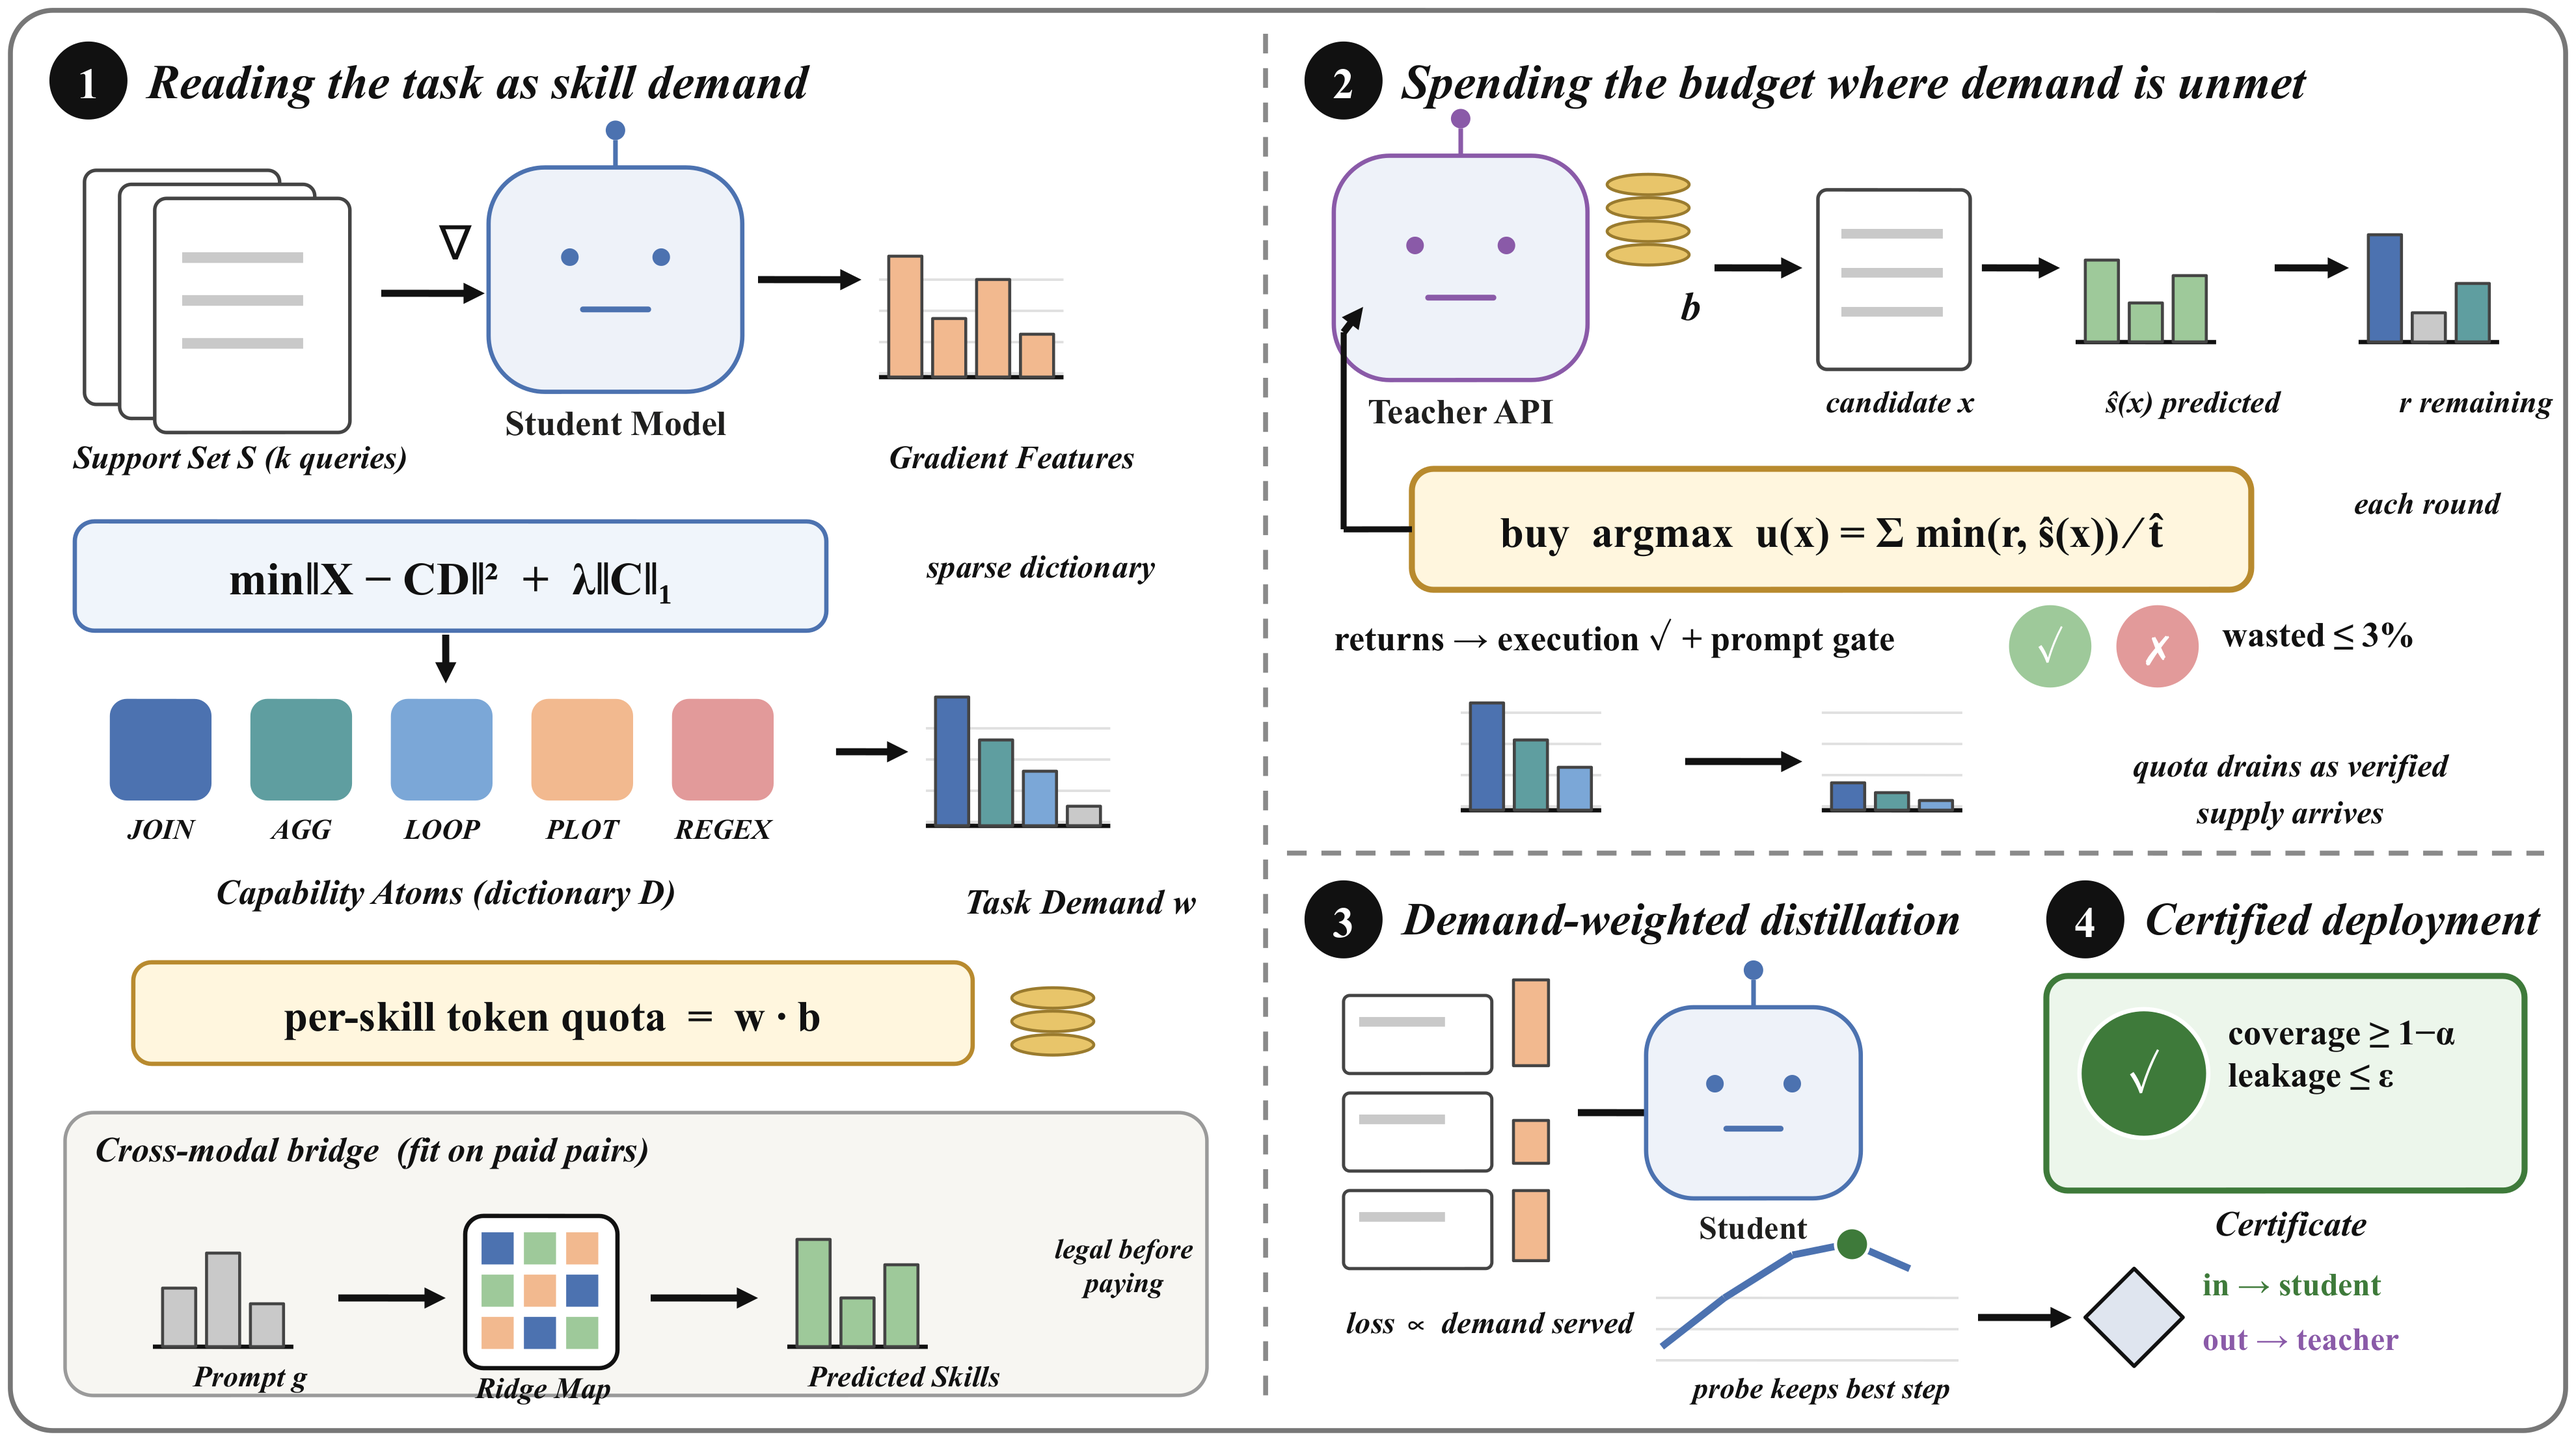
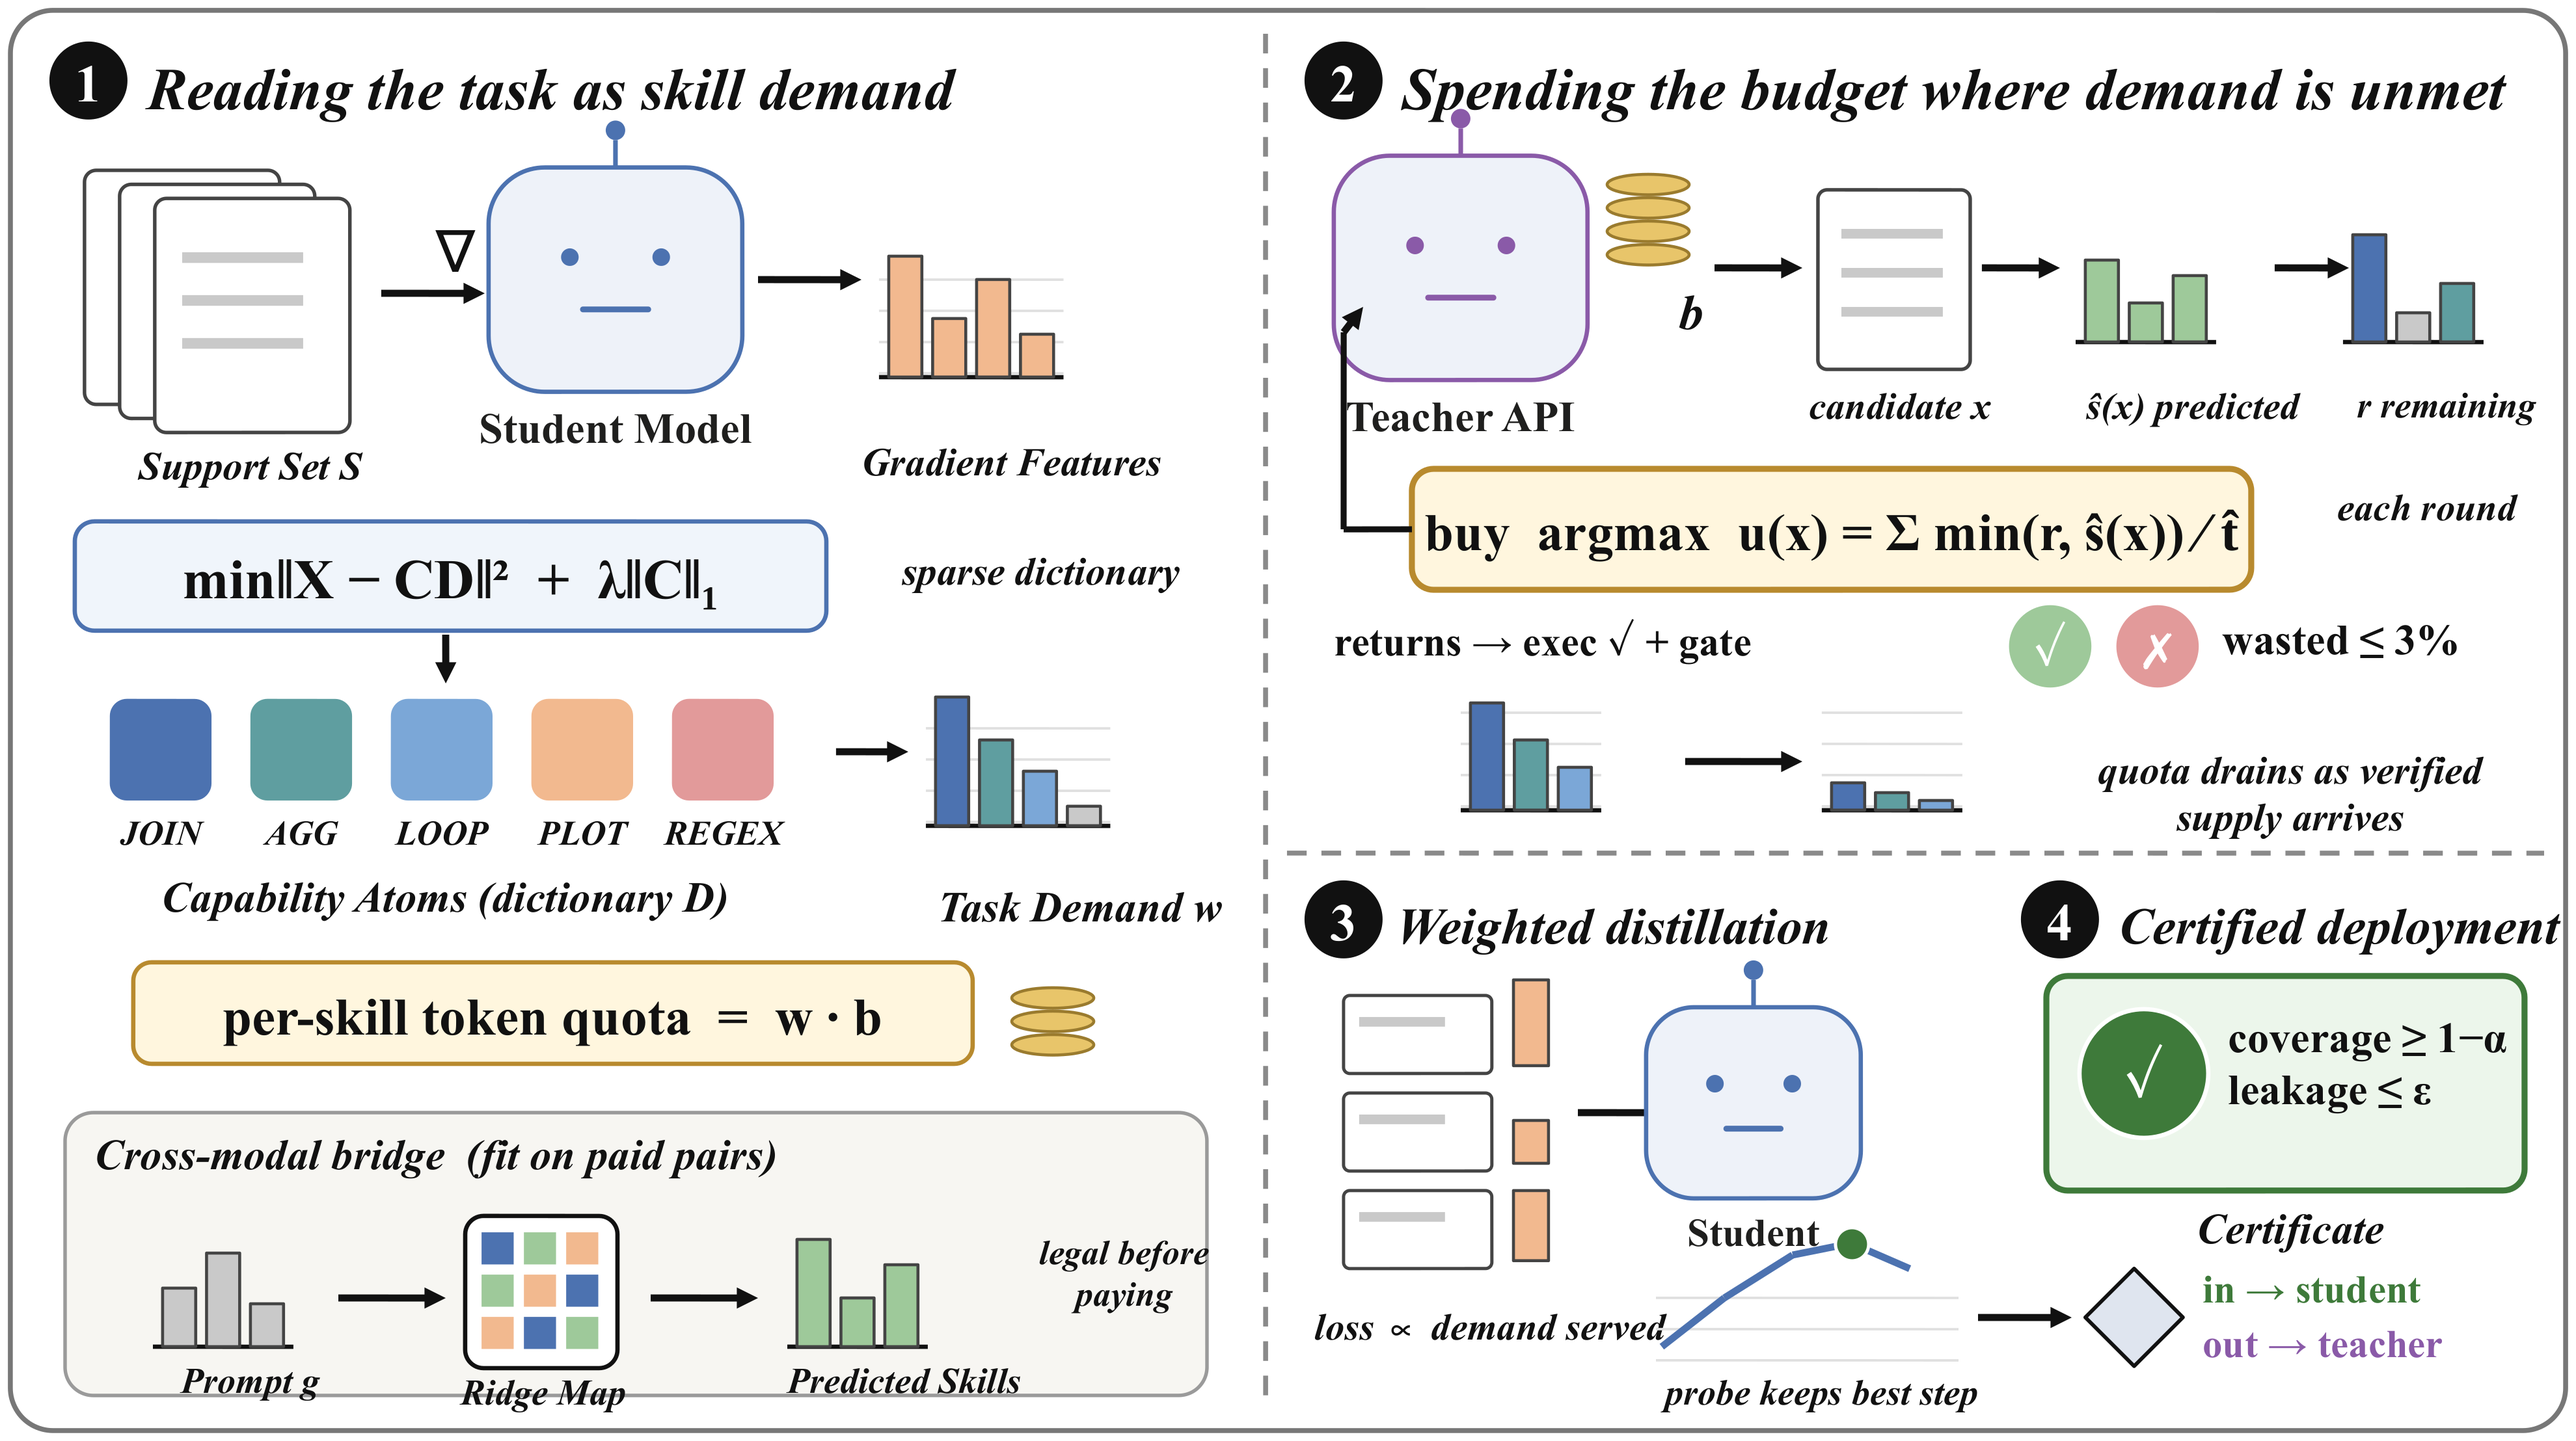
figs: v13 fonts +22% with overflow fixes

diff --git a/tools/make_pipeline_v13.py b/tools/make_pipeline_v13.py
@@ -190,7 +190,7 @@ def bars(x, y, hs, colors, bw=0.17, gap=0.055, grid=True):
             lw=1.1, radius=None, shape=MSO_SHAPE.RECTANGLE)
     return W
 
-def ital(x, y, w, t, size=13, color=DARK, align=PP_ALIGN.CENTER):
+def ital(x, y, w, t, size=15.9, color=DARK, align=PP_ALIGN.CENTER):
     label(x, y, w, 0.32, t, size=size, color=color, italic=True, bold=True,
           align=align)
 
@@ -204,7 +204,7 @@ def arrow(x0, y0, x1, y1, color=DARK, w=2.6):
 
 def stagenum(x, y, n):
     box(x, y, 0.40, 0.40, DARK, None, shape=MSO_SHAPE.OVAL, radius=None,
-        text=str(n), size=16, tcolor=WHITE, bold=True)
+        text=str(n), size=19.5, tcolor=WHITE, bold=True)
 
 def matrix_icon(x, y, s=0.92, name=None):
     box(x, y, s, s, WHITE, DARK, lw=1.6, radius=0.12)
@@ -216,7 +216,7 @@ def matrix_icon(x, y, s=0.92, name=None):
                 cell * 0.8, cols[(r + cc) % 3], WHITE, lw=0.6, radius=None,
                 shape=MSO_SHAPE.RECTANGLE)
     if name:
-        ital(x - 0.45, y + s + 0.05, s + 0.9, name, size=12)
+        ital(x - 0.45, y + s + 0.05, s + 0.9, name, size=14.6)
 
 def coin_stack(x, y, n=4):
     for i in range(n):
@@ -239,24 +239,24 @@ dashline(6.66, 4.42, 13.10, 4.42)
 
 # ============================== LEFT: demand ==============================
 stagenum(0.32, 0.26, 1)
-ital(0.82, 0.30, 5.4, "Reading the task as skill demand", size=18,
+ital(0.82, 0.30, 5.4, "Reading the task as skill demand", size=22,
      align=PP_ALIGN.LEFT)
 
 docs(0.50, 0.92)
-ital(0.30, 2.28, 2.0, "Support Set S (k queries)", size=12)
+ital(0.20, 2.30, 2.3, "Support Set S", size=14.6)
 arrow(2.02, 1.55, 2.55, 1.55)
-label(1.95, 1.10, 0.9, 0.3, "∇", size=20, color=DARK, bold=True)
+label(1.95, 1.10, 0.9, 0.3, "∇", size=24.4, color=DARK, bold=True)
 
-chip(3.22, 1.48, 1.30, 1.15, BLUED, "Student Model", size=13)
+chip(3.22, 1.48, 1.30, 1.15, BLUED, "Student Model", size=15.9)
 arrow(3.95, 1.48, 4.48, 1.48)
 
 bars(4.62, 1.98, [0.62, 0.30, 0.50, 0.22], [ORAN]*4)
-ital(4.30, 2.28, 1.9, "Gradient Features", size=12)
+ital(4.30, 2.28, 1.9, "Gradient Features", size=14.6)
 
 # sparse dictionary formula in pale box
 box(0.45, 2.72, 3.85, 0.56, PALEB, BLUED, lw=1.6, radius=0.18,
-    text="min‖X − CD‖²  +  λ‖C‖₁", size=17, tcolor=DARK, bold=True)
-ital(4.40, 2.84, 2.0, "sparse dictionary", size=12)
+    text="min‖X − CD‖²  +  λ‖C‖₁", size=20.7, tcolor=DARK, bold=True)
+ital(4.40, 2.84, 2.0, "sparse dictionary", size=14.6)
 arrow(2.35, 3.30, 2.35, 3.55)
 
 # atoms with names
@@ -264,44 +264,44 @@ NAMES = ("JOIN", "AGG", "LOOP", "PLOT", "REGEX")
 for i, (c, nm) in enumerate(zip((BLUED, IN2, IN3, ORAN, REDL), NAMES)):
     x0 = 0.62 + i * 0.72
     box(x0, 3.62, 0.54, 0.54, c, WHITE, lw=1.4, radius=0.18)
-    ital(x0 - 0.23, 4.20, 1.0, nm, size=10.5)
-ital(0.55, 4.50, 3.6, "Capability Atoms (dictionary D)", size=13)
+    ital(x0 - 0.23, 4.20, 1.0, nm, size=12.8)
+ital(0.55, 4.50, 3.6, "Capability Atoms (dictionary D)", size=15.9)
 arrow(4.35, 3.90, 4.72, 3.90)
 
 bars(4.86, 4.28, [0.66, 0.44, 0.28, 0.10], [BLUED, IN2, IN3, GRAYB])
-ital(4.55, 4.55, 2.1, "Task Demand w", size=13)
+ital(4.55, 4.55, 2.1, "Task Demand w", size=15.9)
 
 # quota line with coin
 box(0.75, 4.98, 4.30, 0.52, PALEY, RGBColor(0xB8,0x8A,0x2E), lw=1.6,
-    radius=0.18, text="per-skill token quota  =  w · b", size=16,
+    radius=0.18, text="per-skill token quota  =  w · b", size=19.5,
     tcolor=DARK, bold=True)
 coin_stack(5.25, 5.35, n=3)
 
 # bridge strip
 box(0.40, 5.75, 5.85, 1.45, CARD, RGBColor(0x9A,0x9A,0x9A), lw=1.3,
     radius=0.10)
-ital(0.55, 5.82, 5.5, "Cross-modal bridge  (fit on paid pairs)", size=13,
+ital(0.55, 5.82, 5.5, "Cross-modal bridge  (fit on paid pairs)", size=15.9,
      align=PP_ALIGN.LEFT)
 bars(0.90, 6.95, [0.30, 0.48, 0.22], [GRAYB]*3, grid=False)
-ital(0.55, 7.00, 1.6, "Prompt g", size=11)
+ital(0.55, 7.00, 1.6, "Prompt g", size=13.4)
 arrow(1.80, 6.70, 2.35, 6.70)
 matrix_icon(2.45, 6.28, s=0.78)
-ital(2.20, 7.06, 1.3, "Ridge Map", size=11)
+ital(2.20, 7.06, 1.3, "Ridge Map", size=13.4)
 arrow(3.40, 6.70, 3.95, 6.70)
 bars(4.15, 6.95, [0.55, 0.25, 0.42], [GRNB]*3, grid=False)
-ital(3.85, 7.00, 1.7, "Predicted Skills", size=11)
-label(5.35, 6.35, 0.95, 0.6, "legal before\npaying", size=10.5,
+ital(3.85, 7.00, 1.7, "Predicted Skills", size=13.4)
+label(5.35, 6.35, 0.95, 0.6, "legal before\npaying", size=12.8,
       color=DARK, bold=True, italic=True)
 
 # ====================== RIGHT TOP: acquisition loop ======================
 stagenum(6.75, 0.26, 2)
 ital(7.25, 0.30, 6.1, "Spending the budget where demand is unmet",
-     size=18, align=PP_ALIGN.LEFT)
+     size=22, align=PP_ALIGN.LEFT)
 
 chip(7.55, 1.42, 1.30, 1.15, RGBColor(0x8A,0x5A,0xA8), "Teacher API",
-     size=13)
+     size=15.9)
 coin_stack(8.30, 1.30)
-ital(8.28, 1.48, 0.9, "b", size=15)
+ital(8.28, 1.48, 0.9, "b", size=18.3)
 
 arrow(8.85, 1.42, 9.30, 1.42)
 box(9.38, 1.02, 0.78, 0.92, WHITE, RGBColor(0x44,0x44,0x44), lw=1.3,
@@ -309,46 +309,46 @@ box(9.38, 1.02, 0.78, 0.92, WHITE, RGBColor(0x44,0x44,0x44), lw=1.3,
 for yy in (1.22, 1.42, 1.62):
     box(9.50, yy, 0.52, 0.05, GRAYB, None, radius=None,
         shape=MSO_SHAPE.RECTANGLE)
-ital(9.15, 2.00, 1.3, "candidate x", size=11.5)
+ital(9.15, 2.00, 1.3, "candidate x", size=14)
 arrow(10.22, 1.42, 10.62, 1.42)
 bars(10.75, 1.80, [0.42, 0.20, 0.34], [GRNB]*3, grid=False)
-ital(10.50, 2.00, 1.6, "ŝ(x) predicted", size=11.5)
+ital(10.50, 2.00, 1.6, "ŝ(x) predicted", size=14)
 arrow(11.72, 1.42, 12.10, 1.42)
-bars(12.20, 1.80, [0.55, 0.15, 0.30], [BLUED, GRAYB, IN2], grid=False)
-ital(11.95, 2.00, 1.6, "r remaining", size=11.5)
+bars(12.12, 1.80, [0.55, 0.15, 0.30], [BLUED, GRAYB, IN2], grid=False)
+ital(11.85, 2.00, 1.5, "r remaining", size=13.5)
 
 # focal rule
 box(7.30, 2.45, 4.30, 0.62, PALEY, RGBColor(0xB8,0x8A,0x2E), lw=2.2,
     radius=0.18, text="buy  argmax  u(x) = Σ min(r, ŝ(x)) ∕ t̂",
-    size=16, tcolor=DARK, bold=True)
+    size=19.5, tcolor=DARK, bold=True)
 # cycle arrow back to teacher
 conn(7.30, 2.76, 6.95, 2.76, DARK, w=2.2, arrow=False)
 conn(6.95, 2.76, 6.95, 1.75, DARK, w=2.2, arrow=False)
 arrow(6.95, 1.75, 7.05, 1.62)
-ital(11.70, 2.52, 1.6, "each round", size=11.5)
+ital(11.70, 2.52, 1.6, "each round", size=14)
 
 # returns + gate + drain
-label(6.90, 3.20, 3.5, 0.34, "returns → execution ✓ + prompt gate",
-      size=13, color=DARK, bold=True, align=PP_ALIGN.LEFT)
+label(6.90, 3.20, 3.5, 0.34, "returns → exec ✓ + gate",
+      size=15, color=DARK, bold=True, align=PP_ALIGN.LEFT)
 box(10.35, 3.14, 0.44, 0.44, GRNB, WHITE, lw=1.3, shape=MSO_SHAPE.OVAL,
-    radius=None, text="✓", size=15, tcolor=WHITE, bold=True)
+    radius=None, text="✓", size=18.3, tcolor=WHITE, bold=True)
 box(10.90, 3.14, 0.44, 0.44, REDL, WHITE, lw=1.3, shape=MSO_SHAPE.OVAL,
-    radius=None, text="✗", size=15, tcolor=WHITE, bold=True)
-label(11.45, 3.18, 1.8, 0.36, "wasted ≤ 3%", size=13, color=DARK,
+    radius=None, text="✗", size=18.3, tcolor=WHITE, bold=True)
+label(11.45, 3.18, 1.8, 0.36, "wasted ≤ 3%", size=15.9, color=DARK,
       bold=True, align=PP_ALIGN.LEFT)
 
 bars(7.60, 4.20, [0.55, 0.36, 0.22], [BLUED, IN2, IN3])
 arrow(8.70, 3.95, 9.30, 3.95)
 bars(9.45, 4.20, [0.14, 0.09, 0.05], [BLUED, IN2, IN3])
-ital(10.35, 3.86, 2.9, "quota drains as verified", size=12)
-ital(10.35, 4.10, 2.9, "supply arrives", size=12)
+ital(10.35, 3.86, 2.9, "quota drains as verified", size=14.6)
+ital(10.35, 4.10, 2.9, "supply arrives", size=14.6)
 
 # ============== RIGHT BOTTOM: distill + certify ==============
 stagenum(6.75, 4.56, 3)
-ital(7.25, 4.60, 3.6, "Demand-weighted distillation", size=17,
+ital(7.22, 4.62, 3.2, "Weighted distillation", size=19,
      align=PP_ALIGN.LEFT)
-stagenum(10.55, 4.56, 4)
-ital(11.05, 4.60, 2.2, "Certified deployment", size=17,
+stagenum(10.42, 4.56, 4)
+ital(10.92, 4.62, 2.3, "Certified deployment", size=19,
      align=PP_ALIGN.LEFT)
 
 for i, (wh, yy) in enumerate(((0.44, 5.15), (0.22, 5.65), (0.36, 6.15))):
@@ -358,9 +358,9 @@ for i, (wh, yy) in enumerate(((0.44, 5.15), (0.22, 5.65), (0.36, 6.15))):
         shape=MSO_SHAPE.RECTANGLE)
     box(7.82, yy + 0.36 - wh, 0.18, wh, ORAN, RGBColor(0x44,0x44,0x44),
         lw=1.1, radius=None, shape=MSO_SHAPE.RECTANGLE)
-ital(6.70, 6.72, 2.0, "loss ∝ demand served", size=11.5)
+ital(6.70, 6.72, 2.0, "loss ∝ demand served", size=14)
 arrow(8.15, 5.75, 8.60, 5.75)
-chip(9.05, 5.70, 1.10, 0.98, BLUED, "Student", size=12)
+chip(9.05, 5.70, 1.10, 0.98, BLUED, "Student", size=14.6)
 
 # probe curve
 gridlines(8.55, 7.02, 1.55, n=3)
@@ -370,21 +370,21 @@ for (xa, ya), (xb, yb) in zip(pts, pts[1:]):
     conn(xa, ya, xb, yb, BLUED, w=2.6, arrow=False)
 box(9.47, 6.34, 0.17, 0.17, GRND, WHITE, lw=1.2, shape=MSO_SHAPE.OVAL,
     radius=None)
-ital(8.30, 7.06, 2.2, "probe keeps best step", size=11)
+ital(8.30, 7.06, 2.2, "probe keeps best step", size=13.4)
 
 # certificate + gate
 box(10.55, 5.05, 2.45, 1.10, RGBColor(0xEC,0xF6,0xEB), GRND, lw=2.2,
     radius=0.10)
 box(10.72, 5.22, 0.66, 0.66, GRND, WHITE, lw=1.6, shape=MSO_SHAPE.OVAL,
-    radius=None, text="✓", size=18, tcolor=WHITE, bold=True)
-label(11.48, 5.22, 1.45, 0.72, "coverage ≥ 1−α\nleakage ≤ ε", size=13,
+    radius=None, text="✓", size=22, tcolor=WHITE, bold=True)
+label(11.48, 5.22, 1.45, 0.72, "coverage ≥ 1−α\nleakage ≤ ε", size=15.9,
       color=DARK, bold=True, align=PP_ALIGN.LEFT)
-ital(10.70, 6.20, 2.2, "Certificate", size=13)
+ital(10.70, 6.20, 2.2, "Certificate", size=15.9)
 box(10.75, 6.55, 0.50, 0.50, GATE, DARK, lw=1.4,
     shape=MSO_SHAPE.DIAMOND, radius=None)
-label(11.35, 6.52, 1.75, 0.3, "in → student", size=12, color=GRND,
+label(11.35, 6.52, 1.75, 0.3, "in → student", size=14.6, color=GRND,
       bold=True, align=PP_ALIGN.LEFT)
-label(11.35, 6.80, 1.75, 0.3, "out → teacher", size=12,
+label(11.35, 6.80, 1.75, 0.3, "out → teacher", size=14.6,
       color=RGBColor(0x8A,0x5A,0xA8), bold=True, align=PP_ALIGN.LEFT)
 arrow(10.20, 6.80, 10.68, 6.80)
 
